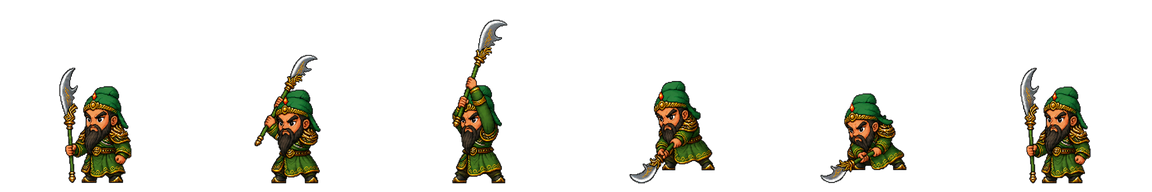
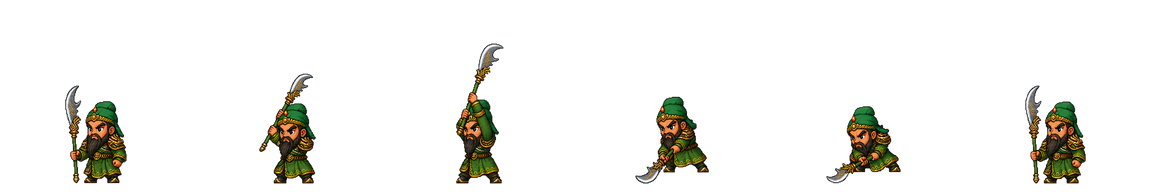
언월난무 연출과 폭탄 좀비 타깃 수정

diff --git a/frontend/src/game/entities/Player.ts b/frontend/src/game/entities/Player.ts
@@ -105,6 +105,8 @@ export class Player extends Phaser.Physics.Arcade.Sprite {
   private actionHitIndex = 0
   /** 일격필살은 조준 표시가 끝난 뒤에만 캐릭터의 찌르기 모션을 재생한다. */
   private skillMotionReleased = true
+  private glaiveMotionPhase: 'ground-swing' | 'air-thrust' | 'landing' = 'landing'
+  private glaiveHasLeftGround = false
   /** 콤보: 지금 재생 중/직전에 낸 단계(0:찌르기 1:휘두르기 2:깊게 찌르기) */
   private comboStep = 0
   /** 콤보: 현재 모션 중 공격키가 눌려 다음 단계가 예약됨 (선입력 버퍼) */
@@ -224,6 +226,10 @@ export class Player extends Phaser.Physics.Arcade.Sprite {
       case 'attack': return 'attack'
       case 'skill':
         if (!this.skillMotionReleased) return 'idle'
+        if (this.skillQueuedCode === 'skill_glaive_flurry') {
+          if (this.glaiveMotionPhase === 'air-thrust') return 'attack'
+          if (this.glaiveMotionPhase === 'landing') return 'idle'
+        }
         return this.hasAnim('skill') ? 'skill' : 'attack'
       case 'hit': return 'hit'
       case 'dead': return 'dead'
@@ -548,9 +554,13 @@ export class Player extends Phaser.Physics.Arcade.Sprite {
     this.actionHitDone = false
     this.actionHitIndex = 0
     this.actionHitTimes = this.skillQueuedCode === 'skill_glaive_flurry' && kind === 'skill'
-      ? [COMBAT.GLAIVE_SLASH_1_HIT_AT_MS, COMBAT.GLAIVE_HIT_AT_MS]
+      ? [COMBAT.GLAIVE_HIT_AT_MS]
       : [hitAt]
     this.skillMotionReleased = kind !== 'skill' || this.skillQueuedCode !== 'skill_decisive_strike'
+    if (kind === 'skill' && this.skillQueuedCode === 'skill_glaive_flurry') {
+      this.glaiveMotionPhase = 'ground-swing'
+      this.glaiveHasLeftGround = false
+    }
     if (kind === 'skill') this.onSkillStart?.(this.facing, this.skillQueuedCode)
     // 대쉬찌르기(콤보 2단계)는 지상에서 앞으로 짧게 돌진한다. 그 외 지상 공격은 제자리 정지.
     const isDashLunge = kind === 'attack' && this.comboStep === 2
@@ -566,6 +576,16 @@ export class Player extends Phaser.Physics.Arcade.Sprite {
   }
 
   private updateAction(input: PlayerControl, now: number) {
+    if (this.state_ === 'skill' && this.skillQueuedCode === 'skill_glaive_flurry'
+      && this.glaiveMotionPhase === 'air-thrust') {
+      const grounded = this.body.blocked.down || this.body.touching.down
+      if (!grounded) this.glaiveHasLeftGround = true
+      else if (this.glaiveHasLeftGround) {
+        this.glaiveMotionPhase = 'landing'
+        this.currentAnimKey = null
+        this.anims.stop()
+      }
+    }
     // 대쉬찌르기 돌진 구간에는 전진 속도를 유지, 그 외에는 지상에서 정지
     if (this.body.blocked.down && now >= this.dashLungeUntil) this.setVelocityX(0)
 
@@ -636,6 +656,9 @@ export class Player extends Phaser.Physics.Arcade.Sprite {
   }
 
   startGlaiveMotion() {
+    this.glaiveMotionPhase = 'air-thrust'
+    this.currentAnimKey = null
+    this.anims.stop()
     if (this.body.blocked.down) this.setVelocityY(-420)
   }
 

diff --git a/frontend/src/game/scenes/GameScene.ts b/frontend/src/game/scenes/GameScene.ts
@@ -892,10 +892,10 @@ export class GameScene extends Phaser.Scene {
         this.effects.lightningDescent(this.player.x, castGroundY)
       }
     }
-    this.player.onSkill = (hitbox, facing, skillCode, hitIndex) => {
+    this.player.onSkill = (hitbox, facing, skillCode, _hitIndex) => {
       // 좌표는 타격 지점 — 기본 공격과 같은 규약(창끝 높이 = player.y + 22, 리치 끝).
       const isGlaiveFlurry = skillCode === 'skill_glaive_flurry'
-      const isGlaiveSlash = isGlaiveFlurry && hitIndex === 0
+      const isGlaiveSlash = false
       const isDecisiveStrike = skillCode === 'skill_decisive_strike'
       const isDragonSlash = skillCode === 'skill_dragon_slash'
       const isLightningDescent = skillCode === 'skill_lightning_descent'
@@ -916,9 +916,7 @@ export class GameScene extends Phaser.Scene {
           facing,
         )
       }
-      const damageMultiplier = isGlaiveSlash
-        ? COMBAT.GLAIVE_SLASH_DAMAGE_MULTIPLIER
-        : isGlaiveFlurry ? COMBAT.GLAIVE_SLAM_DAMAGE_MULTIPLIER : 1
+      const damageMultiplier = isGlaiveFlurry ? COMBAT.GLAIVE_SLAM_DAMAGE_MULTIPLIER : 1
       this.resolveAttack(
         attackArea,
         isGlaiveFlurry ? COMBAT.SKILL_MAX_TARGETS + 2 : COMBAT.SKILL_MAX_TARGETS,
@@ -935,7 +933,7 @@ export class GameScene extends Phaser.Scene {
     const self = this
     this.playerTarget = {
       get x() { return self.player.x },
-      get y() { return self.player.y },
+      get y() { return (self.player.body as Phaser.Physics.Arcade.Body).center.y },
       get alive() { return self.player.isHittable },
       receiveHit: (attack: number, fromX: number) => {
         self.player.receiveHit(attack, fromX)

diff --git a/frontend/src/game/systems/DefenseManager.ts b/frontend/src/game/systems/DefenseManager.ts
@@ -368,12 +368,21 @@ export class DefenseManager {
       if (!m.active) continue
       const structureTarget = this.structureTargetFor(m.x)
       let target = structureTarget
+      const dx = Math.abs(this.playerTarget.x - m.x)
+      const dy = Math.abs(this.playerTarget.y - m.y)
+      // Ranged bomb zombies must be able to recognize and throw at the player
+      // across their actual attack range. The shared 200px melee aggro gate
+      // made them lock onto structures forever.
+      if (m.def.rangedAttack && this.playerTarget.alive
+        && dx <= m.def.attackRange && dy < DEFENSE.PLAYER_AGGRO_Y) {
+        target = this.playerTarget
+        m.update(target, now)
+        continue
+      }
       // 좀비가 맨 앞 구조물 바로 오른쪽(막힌 위치)에 있으면 그 구조물을 우선 공격해 돌파한다.
       // 그래야 플레이어가 뒤에 서 있어도 바리케이트/기지 HP가 깎인다.
       const blockedByStruct = Math.abs(m.x - structureTarget.x) < DEFENSE.STRUCT_AGGRO_X
       if (!blockedByStruct && this.playerTarget.alive) {
-        const dx = Math.abs(this.playerTarget.x - m.x)
-        const dy = Math.abs(this.playerTarget.y - m.y)
         if (dx < DEFENSE.PLAYER_AGGRO_X && dy < DEFENSE.PLAYER_AGGRO_Y) target = this.playerTarget
       }
       m.update(target, now)

diff --git a/frontend/src/game/config.ts b/frontend/src/game/config.ts
@@ -110,13 +110,11 @@ export const COMBAT = {
   // 스킬 전용 아트(8프레임)가 들어오면 그 시트 기준으로 다시 잡아야 한다.
   SKILL_HIT_AT_MS: 205,
   /** 언월난무 좌·우 베기 2회의 타격 시점 */
-  GLAIVE_SLASH_1_HIT_AT_MS: 180,
   GLAIVE_HIT_AT_MS: 720,
   DECISIVE_HIT_AT_MS: 680,
   DRAGON_HIT_AT_MS: 720,
   SKILL_HITSTOP_MS: 70,
   /** 언월난무 각 타격의 추가 피해 배율 */
-  GLAIVE_SLASH_DAMAGE_MULTIPLIER: 1.15,
   GLAIVE_SLAM_DAMAGE_MULTIPLIER: 1.35,
 
   /** 피격 (GAME_DESIGN 4.3) */

diff --git a/frontend/scripts/normalize-character-sheets.py b/frontend/scripts/normalize-character-sheets.py
@@ -16,6 +16,7 @@ FRAME = 192
 ALPHA_THRESHOLD = 8
 INTERNAL_GAP = 35
 SOURCE_SCALE = 0.34
+ACTION_SCALE = {"slash_l": 0.29, "slash_r": 0.29}
 BOTTOM_MARGIN = 8
 
 EXPECTED_FRAMES = {
@@ -52,7 +53,7 @@ def occupied_runs(image: Image.Image) -> list[tuple[int, int]]:
     return runs
 
 
-def normalize(source: Path, destination: Path, expected: int) -> None:
+def normalize(source: Path, destination: Path, expected: int, scale: float) -> None:
     image = Image.open(source).convert("RGBA")
     runs = occupied_runs(image)
     if len(runs) != expected:
@@ -68,7 +69,7 @@ def normalize(source: Path, destination: Path, expected: int) -> None:
 
     scaled = [
         pose.resize(
-            (max(1, round(pose.width * SOURCE_SCALE)), max(1, round(pose.height * SOURCE_SCALE))),
+            (max(1, round(pose.width * scale)), max(1, round(pose.height * scale))),
             Image.Resampling.LANCZOS,
         )
         for pose in poses
@@ -88,7 +89,12 @@ def normalize(source: Path, destination: Path, expected: int) -> None:
 
 def main() -> None:
     for action, expected in EXPECTED_FRAMES.items():
-        normalize(SOURCE / f"guanwu_t2_{action}.png", OUTPUT / f"guanwu_t2_{action}.png", expected)
+        normalize(
+            SOURCE / f"guanwu_t2_{action}.png",
+            OUTPUT / f"guanwu_t2_{action}.png",
+            expected,
+            ACTION_SCALE.get(action, SOURCE_SCALE),
+        )
 
 
 if __name__ == "__main__":
